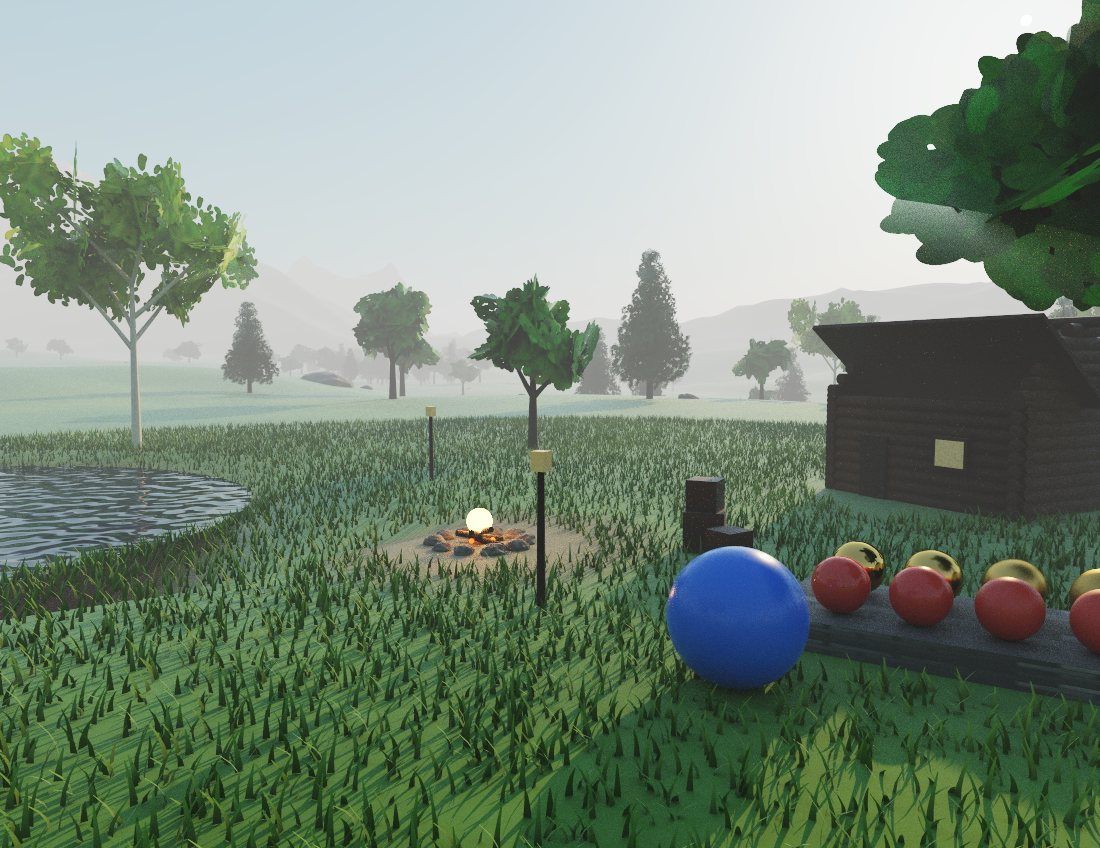
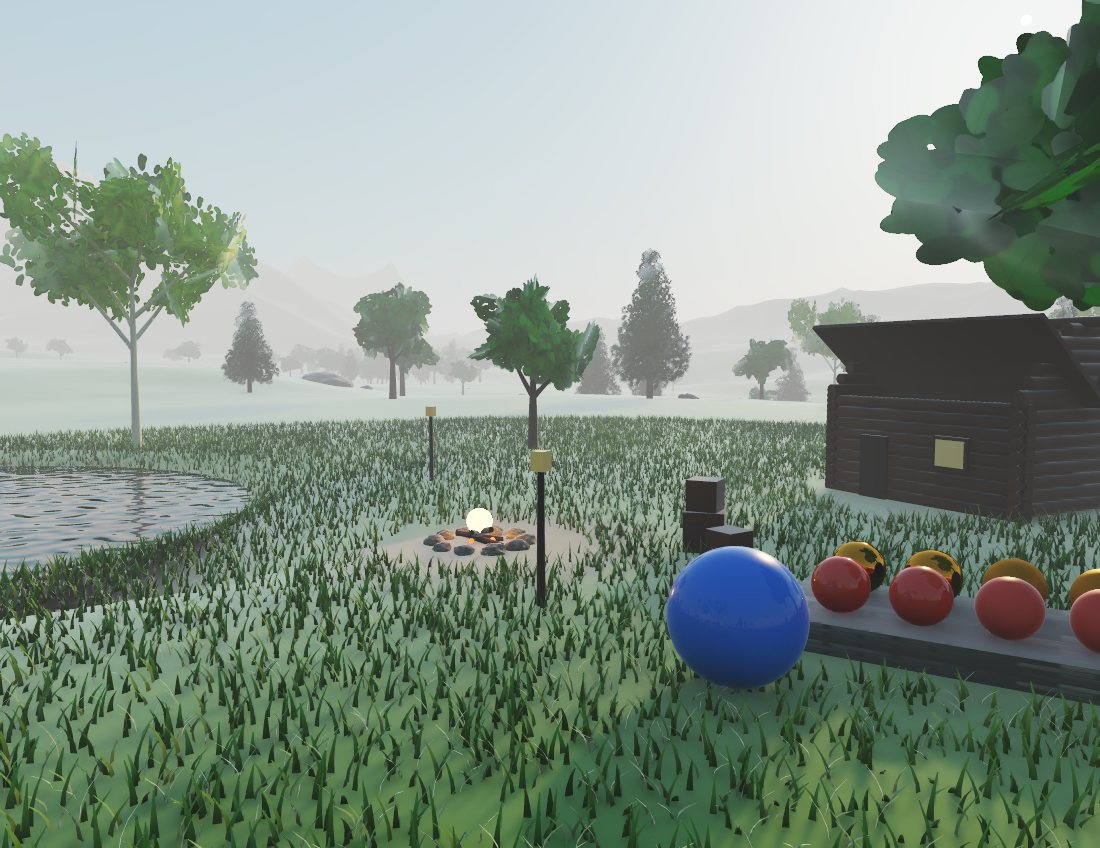
Sky, Sun & Light: a deterministic ray tracer, one complete frame at a time

diff --git a/sandbox/sky-and-light.html b/sandbox/sky-and-light.html
@@ -15,7 +15,7 @@ import { boot, THREE, PAL } from './_kit.js';
 
 const sb = boot({
   slug: 'sky-and-light', title: 'Sky, Sun & Light', standalone: true,
-  blurb: 'One camp, one whole day, and every pixel is a ray. The sky is computed from how air and haze scatter sunlight. The sun, the moon, the fire and the lanterns are real lights with real size, so shadows are soft where they should be. Light bounces off the ground and the walls, the sky lights whatever can see it, the lake and the polished balls reflect it all, and at night it is actually dark except where the fire reaches. Hold the camera still and the picture settles.',
+  blurb: 'One camp, one whole day, ray traced the way a game does it: no photos of the scene, no shortcuts, just rays. The sky is computed from how air and haze scatter sunlight. The sun, the moon, the fire and the lanterns are real lights with real size, so their shadows soften with distance. Rays off the ground and the walls bring bounced light, rays into the sky bring sky light, the lake and the polished balls reflect what a mirror ray finds, and at night it is actually dark except where the fire reaches.',
   camera: { pos: [13, 4.2, 19], target: [-1, 2.2, -3], near: 0.1, far: 9000 },
   hint: 'drag to orbit · scroll to zoom · right-drag to pan'
 });
@@ -199,22 +199,22 @@ function skyConsts() { const s = sunDir; const sunE = 1000 * Math.max(0, 1 - Mat
 function skyCPU(dx, dy, dz, K) { const zen = Math.acos(Math.max(0, dy)), inv = 1 / (Math.cos(zen) + 0.15 * Math.pow(93.885 - zen * 180 / Math.PI, -1.253)), sR = 8.4e3 * inv, sM = 1.25e3 * inv; const cosT = dx * sunDir.x + dy * sunDir.y + dz * sunDir.z, rp = 0.05968310365946075 * (1 + Math.pow(cosT * 0.5 + 0.5, 2)), g = atm.g, hg = 0.07957747154594767 * ((1 - g * g) / Math.pow(1 - 2 * g * cosT + g * g, 1.5)); const out = [0, 0, 0], fex = [0, 0, 0]; const hm = Math.min(1, Math.max(0, Math.pow(1 - sunDir.y, 5)));
   for (let k = 0; k < 3; k++) { const bR = K.betaR[k], bM = K.betaM[k]; const F = Math.exp(-(bR * sR + bM * sM)); fex[k] = F; const ratio = (bR * rp + bM * hg) / (bR + bM); let Lin = Math.pow(K.sunE * ratio * (1 - F), 1.5); Lin *= 1 + (Math.pow(K.sunE * ratio * F, 0.5) - 1) * hm; const tex = (Lin + 0.1 * F) * 0.04 + [0, 0.0003, 0.00075][k]; out[k] = Math.pow(tex, 1 / (1.2 + 1.2 * K.fade)); } return { c: out, fex }; }
 
-// ---- the tracer
+// ---- the ray tracer: a chain of passes, every one of them rays, none of them random
 const GL3 = THREE.GLSL3, QVS = 'out vec2 vUv; void main(){ vUv = uv; gl_Position = vec4(position.xy, 0.0, 1.0); }';
 const v3s = hex => { const c = lin(hex); return `vec3(${c.r.toFixed(4)}, ${c.g.toFixed(4)}, ${c.b.toFixed(4)})`; };
 const U = {
-  uNodes: { value: nodeTex }, uTris: { value: triTex }, uAttr: { value: attrTex }, uInst: { value: instTex }, tPrev: { value: null },
+  uNodes: { value: nodeTex }, uTris: { value: triTex }, uAttr: { value: attrTex }, uInst: { value: instTex },
   tBark: { value: barkTex }, tBirch: { value: birchTex }, tLeafO: { value: leafO }, tLeafP: { value: leafP }, tLeafB: { value: leafB }, tRock: { value: rockTex }, tWood: { value: woodTex }, tStone: { value: stoneTex }, tGround: { value: groundTex },
-  uTlasRoot: { value: tlasRoot }, uFrame: { value: 0 }, uBounces: { value: 2 }, uNSph: { value: NSPH }, uSpp: { value: 1 }, uBlend: { value: 1 }, uFogD: { value: 0.0025 }, uSunSize: { value: 0.27 * Math.PI / 180 }, uMoonSize: { value: 0.3 * Math.PI / 180 },
-  uCamPos: { value: new THREE.Vector3() }, uInvPV: { value: new THREE.Matrix4() }, uSunDir: { value: sunDir }, uSunCol: { value: new THREE.Vector3() }, uMoonDir: { value: moonDir }, uMoonCol: { value: new THREE.Vector3() }, uFogCol: { value: new THREE.Vector3() },
-  uBetaR: { value: new THREE.Vector3() }, uBetaM: { value: new THREE.Vector3() }, uSunE: { value: 0 }, uSunfade: { value: 1 }, uMieG: { value: 0.8 }, uSunCos: { value: 1 }, uNight: { value: 1 }, uSkyOn: { value: 1 }, uRes: { value: new THREE.Vector2(1, 1) },
+  uTlasRoot: { value: tlasRoot }, uFrame: { value: 0 }, uNSph: { value: NSPH }, uFogD: { value: 0.0025 }, uSunSize: { value: 0.27 * Math.PI / 180 }, uMoonSize: { value: 0.3 * Math.PI / 180 }, uShadowK: { value: 4 }, uGiK: { value: 6 }, uNoiseShift: { value: 0 }, uJitter: { value: new THREE.Vector2() },
+  uCamPos: { value: new THREE.Vector3() }, uInvPV: { value: new THREE.Matrix4() }, uSunDir: { value: sunDir }, uSunCol: { value: new THREE.Vector3() }, uMoonDir: { value: moonDir }, uMoonCol: { value: new THREE.Vector3() }, uFogCol: { value: new THREE.Vector3() }, uSkyZen: { value: new THREE.Vector3() }, uSkyHor: { value: new THREE.Vector3() },
+  uBetaR: { value: new THREE.Vector3() }, uBetaM: { value: new THREE.Vector3() }, uSunE: { value: 0 }, uSunfade: { value: 1 }, uMieG: { value: 0.8 }, uSunCos: { value: 1 }, uNight: { value: 1 }, uSkyOn: { value: 1 }, uBounceOn: { value: 1 }, uRes: { value: new THREE.Vector2(1, 1) }, uLoRes: { value: new THREE.Vector2(1, 1) },
   uMatA: { value: matA }, uMatB: { value: matB }, uMatC: { value: matC }, uSphA: { value: sphA }, uSphB: { value: sphB }
 };
-const TRACE = `precision highp float; precision highp int; precision highp sampler2D;
-in vec2 vUv; out vec4 o;
-uniform sampler2D uNodes, uTris, uAttr, uInst, tPrev, tBark, tBirch, tLeafO, tLeafP, tLeafB, tRock, tWood, tStone, tGround;
-uniform int uTlasRoot, uFrame, uBounces, uNSph, uSpp; uniform float uBlend, uFogD, uSunSize, uMoonSize, uSunE, uSunfade, uMieG, uSunCos, uNight, uSkyOn; uniform vec2 uRes;
-uniform vec3 uCamPos, uSunDir, uSunCol, uMoonDir, uMoonCol, uFogCol, uBetaR, uBetaM; uniform mat4 uInvPV;
+const CORE = `precision highp float; precision highp int; precision highp sampler2D;
+in vec2 vUv;
+uniform sampler2D uNodes, uTris, uAttr, uInst, tLeafO, tLeafP, tLeafB;
+uniform int uTlasRoot, uFrame, uNSph, uShadowK, uGiK; uniform float uFogD, uSunSize, uMoonSize, uSunE, uSunfade, uMieG, uSunCos, uNight, uSkyOn, uBounceOn, uNoiseShift; uniform vec2 uRes, uLoRes, uJitter;
+uniform vec3 uCamPos, uSunDir, uSunCol, uMoonDir, uMoonCol, uFogCol, uBetaR, uBetaM, uSkyZen, uSkyHor; uniform mat4 uInvPV;
 uniform vec4 uMatA[${MATN}], uMatB[${MATN}], uMatC[${MATN}], uSphA[24], uSphB[24];
 #define PI 3.14159265
 #define LAKE vec2(${LAKE.x.toFixed(1)}, ${LAKE.z.toFixed(1)})
@@ -224,14 +224,13 @@ vec4 fetchN(int i) { return texelFetch(uNodes, ivec2(i & 2047, i >> 11), 0); }
 vec4 fetchT(int i) { return texelFetch(uTris, ivec2(i & 2047, i >> 11), 0); }
 vec4 fetchA(int i) { return texelFetch(uAttr, ivec2(i & 2047, i >> 11), 0); }
 vec4 fetchI(int i) { return texelFetch(uInst, ivec2(i & 2047, i >> 11), 0); }
-float hash(vec3 p) { p = fract(p * 0.1031); p += dot(p, p.yzx + 33.33); return fract((p.x + p.y) * p.z); }
+// a fixed dither per pixel: the same every frame, so nothing crawls
+float ign(vec2 px) { return fract(52.9829189 * fract(0.06711056 * px.x + 0.00583715 * px.y) + uNoiseShift); }
 float h21(vec2 p) { return fract(sin(dot(p, vec2(127.1, 311.7))) * 43758.5453); }
 float vn(vec2 p) { vec2 i = floor(p), f = fract(p); f = f * f * (3.0 - 2.0 * f); return mix(mix(h21(i), h21(i + vec2(1, 0)), f.x), mix(h21(i + vec2(0, 1)), h21(i + vec2(1, 1)), f.x), f.y); }
 float fb3(vec2 p) { return (0.5 * vn(p) + 0.25 * vn(p * 2.03 + 7.0) + 0.125 * vn(p * 4.1 + 3.0)) / 0.875; }
 vec3 safeDir(vec3 d) { return vec3(abs(d.x) < 1e-6 ? 1e-6 : d.x, abs(d.y) < 1e-6 ? 1e-6 : d.y, abs(d.z) < 1e-6 ? 1e-6 : d.z); }
-// textures are read with an explicit level: derivatives mean nothing inside a ray loop
-vec4 sampleTex(int id, vec2 uv, float lod) { if (id == 1) return textureLod(tBark, uv, lod); if (id == 2) return textureLod(tBirch, uv, lod); if (id == 3) return textureLod(tLeafO, uv, lod); if (id == 4) return textureLod(tLeafP, uv, lod); if (id == 5) return textureLod(tLeafB, uv, lod); if (id == 6) return textureLod(tRock, uv, lod); if (id == 7) return textureLod(tWood, uv, lod); if (id == 8) return textureLod(tStone, uv, lod); return vec4(1.0); }
-// ---- the sky: single scattering of sunlight by air and haze
+float leafAlpha(int id, vec2 uv) { if (id == 3) return textureLod(tLeafO, uv, 0.0).a; if (id == 4) return textureLod(tLeafP, uv, 0.0).a; if (id == 5) return textureLod(tLeafB, uv, 0.0).a; return 1.0; }
 float rayleighPhase(float c) { return 0.05968310365946075 * (1.0 + c * c); }
 float hgPhase(float c, float g) { float g2 = g * g; return 0.07957747154594767 * ((1.0 - g2) / pow(1.0 - 2.0 * g * c + g2, 1.5)); }
 vec3 skyRad(vec3 d, bool disk) {
@@ -241,11 +240,12 @@ vec3 skyRad(vec3 d, bool disk) {
   vec3 Lin = pow(uSunE * ratio * (1.0 - Fex), vec3(1.5)); Lin *= mix(vec3(1.0), pow(uSunE * ratio * Fex, vec3(0.5)), clamp(pow(1.0 - uSunDir.y, 5.0), 0.0, 1.0));
   vec3 L0 = vec3(0.1) * Fex; if (disk) L0 += uSunE * 19000.0 * Fex * smoothstep(uSunCos, uSunCos + (1.0 - uSunCos) * 0.35, cosT);
   vec3 tex = (Lin + L0) * 0.04 + vec3(0.0, 0.0003, 0.00075); return pow(tex, vec3(1.0 / (1.2 + 1.2 * uSunfade))) * uNight; }
-// ---- walking the trees of boxes
+// the sky as a soft light from above, without firing rays: for the ends of paths
+vec3 skyAmb(vec3 n) { return mix(uSkyHor, uSkyZen, n.y * 0.5 + 0.5) * PI * uSkyOn; }
 bool slab(vec3 bmin, vec3 bmax, vec3 o, vec3 invD, float tMax) { vec3 t0 = (bmin - o) * invD, t1 = (bmax - o) * invD; vec3 tmin = min(t0, t1), tmax = max(t0, t1); float tN = max(max(tmin.x, tmin.y), max(tmin.z, 0.0)), tF = min(min(tmax.x, tmax.y), min(tmax.z, tMax)); return tN <= tF; }
 bool alphaOK(int ti, float u, float w) { int mid = int(fetchT(ti * 3).w); vec4 mb = uMatB[mid]; if (mb.w != 4.0) return true;
   vec4 a0 = fetchA(ti * 4), a1 = fetchA(ti * 4 + 1), a2 = fetchA(ti * 4 + 2), a3 = fetchA(ti * 4 + 3); float b0 = 1.0 - u - w; vec2 uv = vec2(a0.w * b0 + a1.w * u + a2.w * w, a3.x * b0 + a3.y * u + a3.z * w);
-  return sampleTex(int(mb.z), uv * uMatC[mid].xy, 0.0).a >= 0.5; }
+  return leafAlpha(int(mb.z), uv * uMatC[mid].xy) >= 0.5; }
 float triT(int ti, vec3 o, vec3 d, out float uo, out float wo) { vec3 v0 = fetchT(ti * 3).xyz, v1 = fetchT(ti * 3 + 1).xyz, v2 = fetchT(ti * 3 + 2).xyz; vec3 e1 = v1 - v0, e2 = v2 - v0, p = cross(d, e2); float det = dot(e1, p); if (abs(det) < 1e-9) return -1.0;
   float inv = 1.0 / det; vec3 tv = o - v0; float u = dot(tv, p) * inv; if (u < 0.0 || u > 1.0) return -1.0; vec3 q = cross(tv, e1); float w = dot(d, q) * inv; if (w < 0.0 || u + w > 1.0) return -1.0; uo = u; wo = w; return dot(e2, q) * inv; }
 bool walkTree(int root, vec3 o, vec3 d, inout float tMax, inout int hitTri, inout vec2 bary, bool anyHit) {
@@ -265,7 +265,31 @@ bool trace(vec3 o, vec3 d, inout float tMax, out int hitTri, out int hitInst, ou
     else { int axis = -cnt - 1; int left = int(a.w); float dc = axis == 0 ? d.x : (axis == 1 ? d.y : d.z); bool lf = dc >= 0.0; if (sp < 38) { stack[sp++] = lf ? left + 1 : left; stack[sp++] = lf ? left : left + 1; } } }
   return hitTri >= 0 || hitSph >= 0; }
 bool occluded(vec3 o, vec3 d, float tMax) { int ht, hi, hs; vec2 bb; float t = tMax; return trace(o, d, t, ht, hi, bb, hs, true); }
-// ---- what a surface is made of
+// where a ray landed: the surface's normal, material and texture spot
+void hitInfo(vec3 ro, vec3 d, float t, int ht, int hi, vec2 bary, int hs, out vec3 p, out vec3 n, out int mid, out vec2 uv) {
+  p = ro + d * t;
+  if (hs >= 0) { n = normalize(p - uSphA[hs].xyz); mid = int(uSphB[hs].x); uv = vec2(atan(n.z, n.x) / 6.2831853 + 0.5, n.y * 0.5 + 0.5); }
+  else { vec4 a0 = fetchA(ht * 4), a1 = fetchA(ht * 4 + 1), a2 = fetchA(ht * 4 + 2), a3 = fetchA(ht * 4 + 3); float b0 = 1.0 - bary.x - bary.y; vec3 nl = normalize(a0.xyz * b0 + a1.xyz * bary.x + a2.xyz * bary.y);
+    vec4 r0 = fetchI(hi * 4), r1 = fetchI(hi * 4 + 1), r2 = fetchI(hi * 4 + 2); n = normalize(r0.xyz * nl.x + r1.xyz * nl.y + r2.xyz * nl.z); mid = int(fetchT(ht * 3).w); uv = vec2(a0.w * b0 + a1.w * bary.x + a2.w * bary.y, a3.x * b0 + a3.y * bary.x + a3.z * bary.y); }
+  if (dot(n, d) > 0.0) n = -n;
+  if (uMatB[mid].w == 3.0) { vec2 g = vec2(vn(p.xz * 2.1 + 5.0) - vn(p.xz * 2.1 + 5.3), vn(p.zx * 2.3 + 1.0) - vn(p.zx * 2.3 + 1.3)); n = normalize(n + vec3(g.x, 0.0, g.y) * 0.25); } }
+// fixed sample sets: k of K around a cone or a dome, turned by the pixel's own dither
+vec3 coneK(vec3 w, float ang, int k, int K, float rot) { vec3 u = normalize(cross(abs(w.y) < 0.9 ? vec3(0.0, 1.0, 0.0) : vec3(1.0, 0.0, 0.0), w)); vec3 vv = cross(w, u); float r = sqrt((float(k) + 0.5) / float(K)) * tan(ang); float ph = 6.2831853 * (float(k) * 0.618034 + rot); return normalize(w + u * (r * cos(ph)) + vv * (r * sin(ph))); }
+vec3 cosK(vec3 n, int k, int K, float rot) { float u1 = (float(k) + 0.5) / float(K), ph = 6.2831853 * fract(float(k) * 0.618034 + rot); float r = sqrt(u1); vec3 u = normalize(cross(abs(n.y) < 0.9 ? vec3(0.0, 1.0, 0.0) : vec3(1.0, 0.0, 0.0), n)); vec3 vv = cross(n, u); return normalize(u * (r * cos(ph)) + vv * (r * sin(ph)) + n * sqrt(max(1.0 - u1, 0.0))); }
+vec3 hemiK(vec3 toward, int k, int K, float rot) { float z = (float(k) + 0.5) / float(K), ph = 6.2831853 * fract(float(k) * 0.618034 + rot); float r = sqrt(max(0.0, 1.0 - z * z)); vec3 u = normalize(cross(abs(toward.y) < 0.9 ? vec3(0.0, 1.0, 0.0) : vec3(1.0, 0.0, 0.0), toward)); vec3 vv = cross(toward, u); return normalize(u * (r * cos(ph)) + vv * (r * sin(ph)) + toward * z); }
+vec3 specBRDF(vec3 n, vec3 v, vec3 l, float rough, vec3 F0) { vec3 h = normalize(v + l); float a = max(rough * rough, 0.01); float ndh = max(dot(n, h), 0.0), ndv = max(dot(n, v), 1e-3), ndl = max(dot(n, l), 1e-3), vdh = max(dot(v, h), 0.0); float a2 = a * a; float D = a2 / (PI * pow(ndh * ndh * (a2 - 1.0) + 1.0, 2.0)); float k = a / 2.0; float G = (ndv / (ndv * (1.0 - k) + k)) * (ndl / (ndl * (1.0 - k) + k)); vec3 F = F0 + (1.0 - F0) * pow(1.0 - vdh, 5.0); return min(D * G * F / (4.0 * ndv * ndl), vec3(20.0)); }
+// the fire and the lanterns: a few rays each toward the near half of the sphere, only when close enough to matter
+vec3 sphereLights(vec3 p, vec3 n, vec3 v, vec3 diffuse, vec3 F0, float rough, float rot, int K) {
+  vec3 L = vec3(0.0);
+  for (int i = 0; i < 24; i++) { if (i >= uNSph) break; if (uSphB[i].y < 0.5) continue; vec4 s = uSphA[i]; int lm = int(uSphB[i].x); vec3 emis = uMatA[lm].rgb * uMatB[lm].y; if (dot(emis, emis) <= 0.0) continue;
+    vec3 toP = p - s.xyz; float dc = length(toP); if (dc > 30.0) continue; vec3 tw = toP / dc; float sum = 0.0; vec3 lSum = vec3(0.0);
+    for (int k = 0; k < 4; k++) { if (k >= K) break; vec3 sn = hemiK(tw, k, K, rot + float(i) * 0.31); vec3 q = s.xyz + s.w * sn; vec3 dq = q - p; float dist = length(dq); vec3 l = dq / dist; float ndl = dot(n, l), nl = dot(sn, -l); if (ndl <= 0.0 || nl <= 0.0) continue; if (occluded(p, l, dist - 1e-3)) continue;
+      lSum += (diffuse + specBRDF(n, v, l, rough, F0)) * ndl * nl / (dist * dist); }
+    L += emis * lSum * (2.0 * PI * s.w * s.w) / float(K); }
+  return L; }
+`;
+const MATS = `uniform sampler2D tBark, tBirch, tRock, tWood, tStone, tGround;
+vec4 sampleTex(int id, vec2 uv, float lod) { if (id == 1) return textureLod(tBark, uv, lod); if (id == 2) return textureLod(tBirch, uv, lod); if (id == 3) return textureLod(tLeafO, uv, lod); if (id == 4) return textureLod(tLeafP, uv, lod); if (id == 5) return textureLod(tLeafB, uv, lod); if (id == 6) return textureLod(tRock, uv, lod); if (id == 7) return textureLod(tWood, uv, lod); if (id == 8) return textureLod(tStone, uv, lod); return vec4(1.0); }
 vec3 terrainColor(vec3 p, vec3 n) { float slope = 1.0 - n.y; float macro = fb3(p.xz / 60.0 + 2.0), micro = fb3(p.xz / 7.0);
   vec3 c = mix(${v3s(0x4f7a2f)}, ${v3s(0x6f8a3a)}, smoothstep(0.35, 0.65, macro)); c = mix(c, ${v3s(0x3f6a33)}, smoothstep(0.3, 0.7, micro) * 0.5);
   c = mix(c, ${v3s(0x6b5a3c)}, smoothstep(0.22, 0.45, slope + (micro - 0.5) * 0.15)); c = mix(c, ${v3s(0x76726a)}, smoothstep(0.4, 0.62, slope));
@@ -278,68 +302,86 @@ void matEval(int mid, vec3 p, vec3 n, vec2 uv, float dist, out vec3 alb, out flo
   vec4 a = uMatA[mid], b = uMatB[mid], c = uMatC[mid]; alb = a.rgb; rough = a.w; metal = b.x; emis = a.rgb * b.y;
   int tex = int(b.z); if (tex > 0) alb *= sampleTex(tex, uv * c.xy, clamp(log2(max(dist, 1.0)) - 2.5, 0.0, 5.0)).rgb;
   if (b.w == 1.0) alb = terrainColor(p, n); else if (b.w == 2.0) alb = grassColor(p, uv); }
-// ---- light
-vec3 coneSample(vec3 w, float ang, float seed) { vec3 u = normalize(cross(abs(w.y) < 0.9 ? vec3(0.0, 1.0, 0.0) : vec3(1.0, 0.0, 0.0), w)); vec3 vv = cross(w, u); float r = sqrt(hash(vec3(gl_FragCoord.xy, seed))) * tan(ang); float ph = 6.2831853 * hash(vec3(gl_FragCoord.yx, seed + 3.7)); return normalize(w + u * (r * cos(ph)) + vv * (r * sin(ph))); }
-vec3 cosDir(vec3 n, float seed) { float u1 = hash(vec3(gl_FragCoord.xy, seed + 8.4)), u2 = hash(vec3(gl_FragCoord.yx, seed + 1.9)); float r = sqrt(u1), ph = 6.2831853 * u2; vec3 u = normalize(cross(abs(n.y) < 0.9 ? vec3(0.0, 1.0, 0.0) : vec3(1.0, 0.0, 0.0), n)); vec3 vv = cross(n, u); return normalize(u * (r * cos(ph)) + vv * (r * sin(ph)) + n * sqrt(max(1.0 - u1, 0.0))); }
-vec3 ggxHalf(vec3 n, float a, float seed) { float u1 = hash(vec3(gl_FragCoord.xy, seed + 4.2)), u2 = hash(vec3(gl_FragCoord.yx, seed + 6.6)); float a2 = a * a; float cosT = sqrt((1.0 - u1) / (1.0 + (a2 - 1.0) * u1)), sinT = sqrt(max(0.0, 1.0 - cosT * cosT)), ph = 6.2831853 * u2; vec3 u = normalize(cross(abs(n.y) < 0.9 ? vec3(0.0, 1.0, 0.0) : vec3(1.0, 0.0, 0.0), n)); vec3 vv = cross(n, u); return normalize(u * (sinT * cos(ph)) + vv * (sinT * sin(ph)) + n * cosT); }
-vec3 sphereSample(float seed) { float u1 = hash(vec3(gl_FragCoord.xy, seed + 2.2)), u2 = hash(vec3(gl_FragCoord.yx, seed + 5.9)); float z = 1.0 - 2.0 * u1, r = sqrt(max(0.0, 1.0 - z * z)), ph = 6.2831853 * u2; return vec3(r * cos(ph), z, r * sin(ph)); }
-vec3 specBRDF(vec3 n, vec3 v, vec3 l, float rough, vec3 F0) { vec3 h = normalize(v + l); float a = max(rough * rough, 0.004); float ndh = max(dot(n, h), 0.0), ndv = max(dot(n, v), 1e-3), ndl = max(dot(n, l), 1e-3), vdh = max(dot(v, h), 0.0); float a2 = a * a; float D = a2 / (PI * pow(ndh * ndh * (a2 - 1.0) + 1.0, 2.0)); float k = a / 2.0; float G = (ndv / (ndv * (1.0 - k) + k)) * (ndl / (ndl * (1.0 - k) + k)); vec3 F = F0 + (1.0 - F0) * pow(1.0 - vdh, 5.0); return min(D * G * F / (4.0 * ndv * ndl), vec3(40.0)); }
-vec3 direct(vec3 p, vec3 n, vec3 v, vec3 alb, float rough, float metal, float seed) {
-  vec3 L = vec3(0.0); vec3 diffuse = alb * (1.0 - metal) / PI; vec3 F0 = mix(vec3(0.04), alb, metal); bool glossy = rough >= 0.2;
-  if (dot(uSunCol, uSunCol) > 0.0) { vec3 l = coneSample(uSunDir, uSunSize, seed); float ndl = dot(n, l); if (ndl > 0.0 && !occluded(p, l, 1e9)) L += uSunCol * ndl * (diffuse + (glossy ? specBRDF(n, v, l, rough, F0) : vec3(0.0))); }
-  if (dot(uMoonCol, uMoonCol) > 0.0) { vec3 l = coneSample(uMoonDir, uMoonSize, seed + 9.0); float ndl = dot(n, l); if (ndl > 0.0 && !occluded(p, l, 1e9)) L += uMoonCol * ndl * (diffuse + (glossy ? specBRDF(n, v, l, rough, F0) : vec3(0.0))); }
-  for (int i = 0; i < 24; i++) { if (i >= uNSph) break; if (uSphB[i].y < 0.5) continue; vec4 s = uSphA[i]; int lm = int(uSphB[i].x); vec3 emis = uMatA[lm].rgb * uMatB[lm].y; if (dot(emis, emis) <= 0.0) continue;
-    vec3 sn = sphereSample(seed + float(i) * 1.7); if (dot(sn, p - s.xyz) < 0.0) sn = -sn; vec3 q = s.xyz + s.w * sn; vec3 dq = q - p; float dist = length(dq); vec3 l = dq / dist; float ndl = dot(n, l), nl = dot(sn, -l); if (ndl <= 0.0 || nl <= 0.0) continue; if (occluded(p, l, dist - 1e-3)) continue;
-    L += emis * (diffuse + (glossy ? specBRDF(n, v, l, rough, F0) : vec3(0.0))) * ndl * nl * (2.0 * PI * s.w * s.w) / (dist * dist); }
-  return L; }
-void main() {
-  vec3 col = vec3(0.0);
-  for (int sp = 0; sp < 4; sp++) { if (sp >= uSpp) break;
-    float seed = fract(float(uFrame * 4 + sp) * 0.618034) * 97.0;
-    vec2 jit = (vec2(hash(vec3(gl_FragCoord.xy, seed + 0.3)), hash(vec3(gl_FragCoord.yx, seed + 0.7))) - 0.5) / uRes;
-    vec4 w = uInvPV * vec4((vUv + jit) * 2.0 - 1.0, 1.0, 1.0); vec3 d = normalize(w.xyz / w.w - uCamPos); vec3 ro = uCamPos;
-    vec3 acc = vec3(0.0), thr = vec3(1.0); bool specBounce = false; float lastRough = 1.0; float tPrimary = -1.0;
-    for (int b = 0; b <= 3; b++) { if (b > uBounces) break;
-      float tMax = 1e9; int ht, hi, hs; vec2 bary; bool hit = trace(ro, d, tMax, ht, hi, bary, hs, false);
-      if (!hit) { acc += thr * skyRad(d, b == 0 || (specBounce && lastRough < 0.2)) * (b == 0 ? 1.0 : uSkyOn); break; }
-      vec3 p = ro + d * tMax; vec3 n; int mid; vec2 uv = vec2(0.0); bool isLight = false;
-      if (hs >= 0) { n = normalize(p - uSphA[hs].xyz); mid = int(uSphB[hs].x); isLight = uSphB[hs].y > 0.5; uv = vec2(atan(n.z, n.x) / 6.2831853 + 0.5, n.y * 0.5 + 0.5); }
-      else { vec4 a0 = fetchA(ht * 4), a1 = fetchA(ht * 4 + 1), a2 = fetchA(ht * 4 + 2), a3 = fetchA(ht * 4 + 3); float b0 = 1.0 - bary.x - bary.y; vec3 nl = normalize(a0.xyz * b0 + a1.xyz * bary.x + a2.xyz * bary.y);
-        vec4 r0 = fetchI(hi * 4), r1 = fetchI(hi * 4 + 1), r2 = fetchI(hi * 4 + 2); n = normalize(r0.xyz * nl.x + r1.xyz * nl.y + r2.xyz * nl.z); mid = int(fetchT(ht * 3).w); uv = vec2(a0.w * b0 + a1.w * bary.x + a2.w * bary.y, a3.x * b0 + a3.y * bary.x + a3.z * bary.y); }
-      if (dot(n, d) > 0.0) n = -n;
-      if (b == 0) tPrimary = tMax;
-      vec3 alb; float rough, metal; vec3 emis; matEval(mid, p, n, uv, tMax, alb, rough, metal, emis);
-      if (uMatB[mid].w == 3.0) { vec2 g = vec2(vn(p.xz * 2.1 + 5.0) - vn(p.xz * 2.1 + 5.3), vn(p.zx * 2.3 + 1.0) - vn(p.zx * 2.3 + 1.3)); n = normalize(n + vec3(g.x, 0.0, g.y) * 0.25); }
-      if (dot(emis, emis) > 0.0 && (b == 0 || !isLight || specBounce)) acc += thr * emis;
-      vec3 v = -d; vec3 po = p + n * 2e-3;
-      acc += thr * direct(po, n, v, alb, rough, metal, seed + float(b) * 7.3);
-      if (b == uBounces) break;
-      vec3 F0 = mix(vec3(0.04), alb, metal); float ndv = max(dot(n, v), 0.0); vec3 F = F0 + (1.0 - F0) * pow(1.0 - ndv, 5.0);
-      float ps = metal > 0.5 ? 1.0 : clamp(max(F.r, max(F.g, F.b)) * 1.5, 0.08, 0.7); if (uMatB[mid].w == 3.0) ps = clamp(F.r * 4.0, 0.05, 0.95);
-      float pick = hash(vec3(gl_FragCoord.xy, seed + 13.0 + float(b) * 2.1)); vec3 nd;
-      if (pick < ps) { vec3 h = ggxHalf(n, max(rough * rough, 0.004), seed + float(b) * 5.5); nd = reflect(d, h); if (dot(nd, n) <= 0.0) break; thr *= (metal > 0.5 ? alb : F / ps) * (metal > 0.5 ? 1.0 : 1.0); specBounce = true; }
-      else { nd = cosDir(n, seed + float(b) * 5.5); thr *= alb * (1.0 - metal) / (1.0 - ps); specBounce = false; }
-      lastRough = rough; d = nd; ro = po;
-    }
-    if (tPrimary > 0.0) { acc = min(acc, vec3(40.0)); acc = mix(uFogCol, acc, exp(-uFogD * tPrimary)); }
-    if (any(isnan(acc)) || any(isinf(acc))) acc = vec3(0.0);
-    col += acc / float(uSpp); }
-  o = vec4(mix(texture(tPrev, vUv).rgb, col, uBlend), 1.0);
-}`;
-const traceMat = new THREE.ShaderMaterial({ glslVersion: GL3, uniforms: U, vertexShader: QVS, fragmentShader: TRACE, depthTest: false, depthWrite: false });
+// light leaving a surface a secondary ray landed on: the sun through one shadow ray, the fire, the sky as a soft dome
+vec3 bounceShade(vec3 q, vec3 nq, vec3 v, float dist, int mid, vec2 uv, float rot) {
+  vec3 alb; float rough, metal; vec3 emis; matEval(mid, q, nq, uv, dist, alb, rough, metal, emis);
+  vec3 diffuse = alb * (1.0 - metal) / PI; vec3 F0 = mix(vec3(0.04), alb, metal); vec3 L = emis; vec3 qo = q + nq * 3e-3;
+  if (dot(uSunCol, uSunCol) > 0.0) { float ndl = dot(nq, uSunDir); if (ndl > 0.0 && !occluded(qo, uSunDir, 1e9)) L += uSunCol * ndl * (diffuse + specBRDF(nq, v, uSunDir, rough, F0)); }
+  if (dot(uMoonCol, uMoonCol) > 0.0) { float ndl = dot(nq, uMoonDir); if (ndl > 0.0 && !occluded(qo, uMoonDir, 1e9)) L += uMoonCol * ndl * diffuse; }
+  L += sphereLights(qo, nq, v, diffuse, F0, rough, rot, 1);
+  L += diffuse * skyAmb(nq) * 0.55 * uBounceOn; return L; }
+`;
+// pass 1: cast one ray per pixel and remember what it hit
+const GBUF = CORE + MATS + `layout(location = 0) out vec4 oA; layout(location = 1) out vec4 oB; layout(location = 2) out vec4 oC; layout(location = 3) out vec4 oD;
+void main() { vec4 w = uInvPV * vec4((vUv + uJitter / uRes) * 2.0 - 1.0, 1.0, 1.0); vec3 d = normalize(w.xyz / w.w - uCamPos); float tMax = 1e9; int ht, hi, hs; vec2 bary;
+  if (!trace(uCamPos, d, tMax, ht, hi, bary, hs, false)) { oA = vec4(d, -1.0); oB = vec4(0.0); oC = vec4(0.0); oD = vec4(0.0); return; }
+  vec3 p, n; int mid; vec2 uv; hitInfo(uCamPos, d, tMax, ht, hi, bary, hs, p, n, mid, uv); vec3 alb; float rough, metal; vec3 emis; matEval(mid, p, n, uv, tMax, alb, rough, metal, emis);
+  oA = vec4(p, tMax); oB = vec4(n, rough); oC = vec4(alb, metal); oD = vec4(emis, float(mid)); }`;
+// pass 2, at half size: shadow rays to the sun and the moon, and rays up into the sky and off the ground for the soft light
+const LO = CORE + MATS + `uniform sampler2D gA, gB; layout(location = 0) out vec4 oV; layout(location = 1) out vec4 oG;
+void main() { vec4 A = texture(gA, vUv); if (A.w < 0.0) { oV = vec4(1.0, 1.0, 0.0, 0.0); oG = vec4(0.0); return; } vec3 p = A.xyz, n = texture(gB, vUv).xyz; vec3 po = p + n * 3e-3; float rot = ign(floor(vUv * uLoRes));
+  float sv = 1.0; if (dot(uSunCol, uSunCol) > 0.0) { sv = 0.0; if (dot(n, uSunDir) > -0.1) { for (int k = 0; k < 8; k++) { if (k >= uShadowK) break; vec3 l = coneK(uSunDir, uSunSize, k, uShadowK, rot); if (!occluded(po, l, 1e9)) sv += 1.0; } sv /= float(uShadowK); } }
+  float mv = 1.0; if (dot(uMoonCol, uMoonCol) > 0.0) { mv = 0.0; vec3 l = coneK(uMoonDir, uMoonSize, 0, 1, rot); if (dot(n, l) > 0.0 && !occluded(po, l, 1e9)) mv = 1.0; }
+  vec3 E = vec3(0.0); vec3 v = normalize(uCamPos - p);
+  for (int k = 0; k < 8; k++) { if (k >= uGiK) break; vec3 dd = cosK(n, k, uGiK, rot + 0.37); float tMax = 1e9; int ht, hi, hs; vec2 bb;
+    if (!trace(po, dd, tMax, ht, hi, bb, hs, false)) E += skyRad(dd, false) * uSkyOn;
+    else if (uBounceOn > 0.5) { vec3 q, nq; int mq; vec2 uq; hitInfo(po, dd, tMax, ht, hi, bb, hs, q, nq, mq, uq); E += bounceShade(q, nq, -dd, tMax + A.w, mq, uq, rot + float(k) * 0.13); } }
+  E *= PI / float(uGiK);
+  oV = vec4(sv, mv, 0.0, 1.0); oG = vec4(E, 1.0); }`;
+// pass 3: smooth the half-size answers without crossing edges, once across, once down
+const BLUR = CORE + `uniform sampler2D gA, gB, tV, tG; uniform vec2 uDir; layout(location = 0) out vec4 oV; layout(location = 1) out vec4 oG;
+void main() { vec4 A0 = texture(gA, vUv); vec4 v0 = texture(tV, vUv), g0 = texture(tG, vUv); if (A0.w < 0.0 || uDir.x + uDir.y == 0.0) { oV = v0; oG = g0; return; } vec3 n0 = texture(gB, vUv).xyz; float z0 = A0.w; vec4 sv = vec4(0.0), sg = vec4(0.0); float ws = 0.0;
+  for (int i = -4; i <= 4; i++) { vec2 uv2 = vUv + uDir * float(i) / uLoRes; if (uv2.x < 0.0 || uv2.x > 1.0 || uv2.y < 0.0 || uv2.y > 1.0) continue; vec4 A = texture(gA, uv2); if (A.w < 0.0) continue; vec3 n = texture(gB, uv2).xyz;
+    float w = exp(-abs(A.w - z0) / (0.03 * z0 + 0.05)) * pow(max(dot(n, n0), 0.0), 12.0) * exp(-float(i * i) / 8.0); sv += texture(tV, uv2) * w; sg += texture(tG, uv2) * w; ws += w; }
+  oV = ws > 0.0 ? sv / ws : v0; oG = ws > 0.0 ? sg / ws : g0; }`;
+// pass 4: one mirror ray for anything smooth enough to show a reflection
+const REFL = CORE + MATS + `uniform sampler2D gA, gB, gC; out vec4 o;
+void main() { vec4 A = texture(gA, vUv), B = texture(gB, vUv); if (A.w < 0.0 || B.w >= 0.45) { o = vec4(0.0); return; } vec3 p = A.xyz, n = B.xyz; vec3 v = normalize(uCamPos - p); vec3 r = reflect(-v, n); if (dot(r, n) <= 0.0) { o = vec4(0.0); return; }
+  vec3 po = p + n * 3e-3; float tMax = 1e9; int ht, hi, hs; vec2 bb; vec3 col;
+  if (!trace(po, r, tMax, ht, hi, bb, hs, false)) col = skyRad(r, true);
+  else { vec3 q, nq; int mq; vec2 uq; hitInfo(po, r, tMax, ht, hi, bb, hs, q, nq, mq, uq); col = bounceShade(q, nq, -r, tMax + A.w, mq, uq, ign(gl_FragCoord.xy)); col = mix(uFogCol, col, exp(-uFogD * tMax)); }
+  o = vec4(col, 1.0); }`;
+// pass 5: put it together at full size: direct light, the fire and the lanterns by rays, the smoothed soft light, reflections, haze
+const COMP = CORE + `uniform sampler2D gA, gB, gC, gD, tV, tG, tR, tPrev; uniform float uBlend; uniform int uView; out vec4 o;
+void main() { vec4 A = texture(gA, vUv); vec3 col;
+  if (A.w < 0.0) col = skyRad(A.xyz, true);
+  else { vec4 B = texture(gB, vUv), C = texture(gC, vUv), D = texture(gD, vUv); vec3 p = A.xyz, n = B.xyz, alb = C.rgb; float rough = B.w, metal = C.w; vec3 emis = D.rgb; vec3 v = normalize(uCamPos - p);
+    // the half-size answers, picked from the four nearest cells that belong to the same surface
+    vec2 lc = vUv * uLoRes - 0.5; vec2 f = fract(lc); vec2 base = (floor(lc) + 0.5) / uLoRes; vec4 sv = vec4(0.0); float ws = 0.0;
+    for (int j = 0; j < 4; j++) { vec2 uv2 = base + vec2(float(j & 1), float(j >> 1)) / uLoRes; vec4 Al = texture(gA, uv2); if (Al.w < 0.0) continue; vec3 nl = texture(gB, uv2).xyz; float w = (j == 0 ? (1.0 - f.x) * (1.0 - f.y) : j == 1 ? f.x * (1.0 - f.y) : j == 2 ? (1.0 - f.x) * f.y : f.x * f.y) * exp(-abs(Al.w - A.w) / (0.03 * A.w + 0.05)) * pow(max(dot(nl, n), 0.0), 8.0) + 1e-4; sv += vec4(texture(tV, uv2).xy, texture(tG, uv2).rg) * w; ws += w; }
+    vec4 vG = ws > 0.0 ? sv / ws : vec4(1.0, 1.0, 0.0, 0.0); vec3 E = vec3(0.0); { vec4 sg = vec4(0.0); float w2 = 0.0; for (int j = 0; j < 4; j++) { vec2 uv2 = base + vec2(float(j & 1), float(j >> 1)) / uLoRes; vec4 Al = texture(gA, uv2); if (Al.w < 0.0) continue; vec3 nl = texture(gB, uv2).xyz; float w = (j == 0 ? (1.0 - f.x) * (1.0 - f.y) : j == 1 ? f.x * (1.0 - f.y) : j == 2 ? (1.0 - f.x) * f.y : f.x * f.y) * exp(-abs(Al.w - A.w) / (0.03 * A.w + 0.05)) * pow(max(dot(nl, n), 0.0), 8.0) + 1e-4; sg += texture(tG, uv2) * w; w2 += w; } E = w2 > 0.0 ? sg.rgb / w2 : vec3(0.0); }
+    float sunVis = vG.x, moonVis = vG.y;
+    vec3 diffuse = alb * (1.0 - metal) / PI; vec3 F0 = mix(vec3(0.04), alb, metal); float ndv = max(dot(n, v), 0.0); vec3 F = F0 + (1.0 - F0) * pow(1.0 - ndv, 5.0);
+    col = emis;
+    float ndl = max(dot(n, uSunDir), 0.0); col += uSunCol * sunVis * ndl * (diffuse + specBRDF(n, v, uSunDir, rough, F0));
+    float ndm = max(dot(n, uMoonDir), 0.0); col += uMoonCol * moonVis * ndm * diffuse;
+    col += sphereLights(p + n * 3e-3, n, v, diffuse, F0, rough, ign(gl_FragCoord.xy), 2);
+    col += diffuse * E;
+    // reflections: a traced mirror for the smooth, the soft sky for the rough, blended by how rough
+    vec4 R = texture(tR, vUv); float open = clamp(dot(E, vec3(0.33)) / max(dot(skyAmb(n), vec3(0.33)), 1e-3), 0.0, 1.0);
+    vec3 specAmb = F * mix(uSkyHor, uSkyZen, reflect(-v, n).y * 0.5 + 0.5) * uSkyOn * open;
+    float sharp = R.a > 0.5 ? 1.0 - smoothstep(0.12, 0.45, rough) : 0.0; col += mix(specAmb, F * R.rgb, sharp) * (metal > 0.5 ? alb / max(F, vec3(1e-3)) * F : vec3(1.0));
+    col = mix(uFogCol, col, exp(-uFogD * A.w));
+    if (uView == 1) col = vec3(sunVis); else if (uView == 2) col = E * 0.5; else if (uView == 3) col = R.a > 0.5 ? R.rgb : vec3(0.0); }
+  if (any(isnan(col))) col = vec3(0.0);
+  o = vec4(mix(texture(tPrev, vUv).rgb, col, uBlend), 1.0); }`;
+const mk = (frag, extra) => new THREE.ShaderMaterial({ glslVersion: GL3, uniforms: Object.assign({}, U, extra || {}), vertexShader: QVS, fragmentShader: frag, depthTest: false, depthWrite: false });
+const gbufMat = mk(GBUF); const loMat = mk(LO, { gA: { value: null }, gB: { value: null } }); const blurMat = mk(BLUR, { gA: { value: null }, gB: { value: null }, tV: { value: null }, tG: { value: null }, uDir: { value: new THREE.Vector2() } });
+const reflMat = mk(REFL, { gA: { value: null }, gB: { value: null }, gC: { value: null } }); const compMat = mk(COMP, { gA: { value: null }, gB: { value: null }, gC: { value: null }, gD: { value: null }, tV: { value: null }, tG: { value: null }, tR: { value: null }, tPrev: { value: null }, uBlend: { value: 1 }, uView: { value: 0 } });
 const dispU = { tSrc: { value: null }, uExposure: { value: 0.42 }, uCurve: { value: 1 } };
 const dispMat = new THREE.ShaderMaterial({ glslVersion: GL3, uniforms: dispU, vertexShader: QVS, depthTest: false, depthWrite: false, fragmentShader: `precision highp float; in vec2 vUv; out vec4 o; uniform sampler2D tSrc; uniform float uExposure; uniform int uCurve;
 vec3 aces(vec3 x) { return clamp((x * (2.51 * x + 0.03)) / (x * (2.43 * x + 0.59) + 0.14), 0.0, 1.0); }
 vec3 srgb(vec3 c) { c = clamp(c, 0.0, 1.0); return mix(c * 12.92, 1.055 * pow(c, vec3(1.0 / 2.4)) - 0.055, step(0.0031308, c)); }
 void main() { vec3 c = texture(tSrc, vUv).rgb * uExposure; c = uCurve == 1 ? aces(c) : uCurve == 2 ? c / (1.0 + c) : c; o = vec4(srgb(c), 1.0); }` });
-const quadCam = new THREE.OrthographicCamera(-1, 1, 1, -1, 0, 1), quadGeo = new THREE.PlaneGeometry(2, 2);
-const traceScene = new THREE.Scene(); traceScene.add(new THREE.Mesh(quadGeo, traceMat)); const dispScene = new THREE.Scene(); dispScene.add(new THREE.Mesh(quadGeo, dispMat));
-let rt = null, rtPrev = null, rtScale = 0, accN = 0;
-function ensureRT(scale) { const w = Math.max(2, Math.round(sb.stage.clientWidth * scale)), h = Math.max(2, Math.round(sb.stage.clientHeight * scale)); if (rt && rt.width === w && rt.height === h) return; if (rt) { rt.dispose(); rtPrev.dispose(); }
-  const mk = () => new THREE.WebGLRenderTarget(w, h, { type: THREE.FloatType, minFilter: THREE.LinearFilter, magFilter: THREE.LinearFilter, depthBuffer: false }); rt = mk(); rtPrev = mk(); accN = 0; U.uRes.value.set(w, h); }
+const quadCam = new THREE.OrthographicCamera(-1, 1, 1, -1, 0, 1), quadGeo = new THREE.PlaneGeometry(2, 2), quad = new THREE.Mesh(quadGeo, gbufMat), quadScene = new THREE.Scene(); quadScene.add(quad);
+function pass(mat, target) { quad.material = mat; renderer.setRenderTarget(target); renderer.render(quadScene, quadCam); }
+let rtG = null, rtLo = null, rtLoT = null, rtLoB = null, rtR = null, acc = null, accPrev = null, rtScale = 0, accN = 0;
+const mkRT = (w, h, count, linear) => new THREE.WebGLRenderTarget(w, h, { count, type: THREE.FloatType, minFilter: linear ? THREE.LinearFilter : THREE.NearestFilter, magFilter: linear ? THREE.LinearFilter : THREE.NearestFilter, depthBuffer: false });
+function ensureRT(scale) { const w = Math.max(2, Math.round(sb.stage.clientWidth * scale)), h = Math.max(2, Math.round(sb.stage.clientHeight * scale)); if (rtG && rtG.width === w && rtG.height === h) return; for (const r of [rtG, rtLo, rtLoT, rtLoB, rtR, acc, accPrev]) if (r) r.dispose();
+  const lw = Math.max(2, w >> 1), lh = Math.max(2, h >> 1); rtG = mkRT(w, h, 4, false); rtLo = mkRT(lw, lh, 2, false); rtLoT = mkRT(lw, lh, 2, false); rtLoB = mkRT(lw, lh, 2, false); rtR = mkRT(w, h, 1, false); acc = mkRT(w, h, 1, true); accPrev = mkRT(w, h, 1, true); accN = 0; U.uRes.value.set(w, h); U.uLoRes.value.set(lw, lh); }
 
 // ---- state
-let hour = 9.5, running = false, sunStrength = 1, moonOn = true, lightFrom = 'both', autoExp = true, exposure = 0.42, fogOn = true, fogDensity = 0.0025, stillScale = 1, moveScale = 0.3, accumulate = true, fireOn = true, lampsOn = true, rowsOn = true;
+let hour = 9.5, running = false, sunStrength = 1, moonOn = true, lightFrom = 'both', autoExp = true, exposure = 0.42, fogOn = true, fogDensity = 0.0025, stillScale = 1, moveScale = 0.5, accumulate = true, fireOn = true, lampsOn = true, rowsOn = true, denoise = true;
 let lastMove = 0, runT = 0; const lastCam = new THREE.Matrix4(); let stateKey = '';
 function dirty() { accN = 0; }
 function placeSun() {
@@ -349,8 +391,8 @@ function placeSun() {
   const upness = THREE.MathUtils.smoothstep(sunDir.y, -0.02, 0.06), night = 1 - THREE.MathUtils.smoothstep(sunDir.y, -0.02, 0.1); const nightScale = 0.03 + 0.97 * THREE.MathUtils.smoothstep(sunDir.y, -0.2, -0.02); U.uNight.value = nightScale;
   const { fex } = skyCPU(sunDir.x, Math.max(sunDir.y, 0.001), sunDir.z, K); const sunI = (lightFrom === 'sky' ? 0 : sunStrength) * 13 * upness; U.uSunCol.value.set(fex[0] * sunI, fex[1] * sunI, fex[2] * sunI);
   const moonI = moonOn && lightFrom !== 'sky' ? 0.05 * (1 - THREE.MathUtils.smoothstep(sunDir.y, -0.16, -0.01)) : 0; U.uMoonCol.value.set(0.55 * moonI, 0.65 * moonI, 1.0 * moonI);
-  U.uSkyOn.value = lightFrom === 'sun' ? 0 : 1;
-  let r = 0, g = 0, b = 0; for (let i = 0; i < 8; i++) { const a = i / 8 * Math.PI * 2; const c = skyCPU(Math.cos(a) * 0.999, 0.035, Math.sin(a) * 0.999, K).c; r += c[0]; g += c[1]; b += c[2]; } U.uFogCol.value.set(r / 8 * nightScale, g / 8 * nightScale, b / 8 * nightScale);
+  U.uSkyOn.value = lightFrom === 'sun' ? 0 : 1; const zc = skyCPU(0, 1, 0, K).c; U.uSkyZen.value.set(zc[0] * nightScale, zc[1] * nightScale, zc[2] * nightScale);
+  let r = 0, g = 0, b = 0; for (let i = 0; i < 8; i++) { const a = i / 8 * Math.PI * 2; const c = skyCPU(Math.cos(a) * 0.999, 0.035, Math.sin(a) * 0.999, K).c; r += c[0]; g += c[1]; b += c[2]; } U.uFogCol.value.set(r / 8 * nightScale, g / 8 * nightScale, b / 8 * nightScale); U.uSkyHor.value.copy(U.uFogCol.value);
   matB[M.GLASS * 4 + 1] = 4 * night; matB[M.LAMP * 4 + 1] = lampsOn ? 22 * night : 0; matB[M.FLAME * 4 + 1] = fireOn ? 45 : 0; matB[M.EMBER * 4 + 1] = fireOn ? 6 : 0;
   if (autoExp) exposure = THREE.MathUtils.lerp(2.6, 0.42, THREE.MathUtils.smoothstep(sunDir.y, -0.12, 0.12)); dispU.uExposure.value = exposure;
   sunHRead((Math.asin(sunDir.y) * 180 / Math.PI).toFixed(0) + '° above the horizon'); const sc = new THREE.Color(fex[0], fex[1], fex[2]); sunCRead(sunI > 0.01 ? '#' + sc.getHexString() + ' × ' + sunI.toFixed(1) : 'below the horizon'); dirty();
@@ -371,7 +413,7 @@ const sunHRead = s1.readout('sun height'), sunCRead = s1.readout('sun colour and
 const s2 = sb.panel.section('02 · Light and bounces', 'The sun, the moon, the fire and the lanterns are the only things that make light. Everything else is light that bounced: off the sky, off the ground, off the walls. Turn the sky off and every shadow goes black; turn the bounces off and the underside of everything goes black.');
 s2.segment('Light from', [{ value: 'both', label: 'sun and sky' }, { value: 'sun', label: 'the sun only' }, { value: 'sky', label: 'the sky only' }], 'both', v => { lightFrom = v; placeSun(); });
 s2.slider('Sun strength', { min: 0, max: 3, step: 0.05, value: 1, fmt: v => '× ' + (+v).toFixed(2) }, v => { sunStrength = v; placeSun(); });
-s2.slider('Bounces the light may take', { min: 0, max: 3, step: 1, value: 2, fmt: v => v === 0 ? 'none, direct light only' : v + (v === 1 ? ' bounce' : ' bounces') }, v => { U.uBounces.value = v; dirty(); });
+s2.toggle('bounced light (rays off the ground and the walls)', true, v => { U.uBounceOn.value = v ? 1 : 0; dirty(); });
 s2.toggle('the campfire', true, v => { fireOn = v; placeSun(); });
 s2.toggle('the lanterns', true, v => { lampsOn = v; placeSun(); });
 s2.note('Look for the red bounce from the crates on the grass beside them, the green bounce under the trees, and at night the fire lighting the cabin wall from below.');
@@ -392,12 +434,15 @@ const s5 = sb.panel.section('05 · Air in the distance', 'Far things fade into t
 s5.toggle('haze in the distance', true, v => { fogOn = v; U.uFogD.value = v ? fogDensity : 0; dirty(); });
 s5.slider('How thick', { min: 0, max: 0.02, step: 0.0005, value: 0.0025, fmt: v => (+v).toFixed(4) }, v => { fogDensity = v; if (fogOn) U.uFogD.value = v; dirty(); });
 
-const s6 = sb.panel.section('06 · The renderer', 'Every pixel fires one ray a frame, and the frames blend while nothing moves. While you drag, it draws a small picture so it can keep up, then goes back to full size and settles. This is the same trade every path traced game makes, with a denoiser instead of your patience.');
+const s6 = sb.panel.section('06 · The renderer', 'This is how a game ray traces: one ray per pixel finds the surface, a few rays per pixel ask the sun, the moon, the fire and the sky, one mirror ray serves anything smooth, and the soft light is worked out at half size and smoothed without crossing edges. Nothing is random, so every frame is complete. Holding still only adds anti-aliasing.');
+s6.segment('Show', [{ value: 0, label: 'the picture' }, { value: 1, label: 'the sun\'s shadow rays' }, { value: 2, label: 'sky and bounce light' }, { value: 3, label: 'the mirror rays' }], 0, v => { compMat.uniforms.uView.value = +v; dirty(); });
+s6.segment('Shadow rays per pixel, toward the sun', [{ value: 1, label: '1' }, { value: 2, label: '2' }, { value: 4, label: '4' }, { value: 8, label: '8' }], 4, v => { U.uShadowK.value = +v; dirty(); });
+s6.segment('Rays per pixel for sky and bounce light', [{ value: 2, label: '2' }, { value: 4, label: '4' }, { value: 6, label: '6' }, { value: 8, label: '8' }], 6, v => { U.uGiK.value = +v; dirty(); });
+s6.toggle('smooth the shadow and bounce answers (denoise)', true, v => { denoise = v; dirty(); });
 s6.segment('Picture size while still', [{ value: 1, label: 'full' }, { value: 0.5, label: 'half' }], 1, v => { stillScale = +v; });
-s6.segment('Picture size while moving', [{ value: 0.5, label: 'half' }, { value: 0.3, label: 'a third' }, { value: 0.2, label: 'a fifth' }], 0.3, v => { moveScale = +v; });
-s6.segment('Rays per pixel each frame', [{ value: 1, label: '1' }, { value: 2, label: '2' }, { value: 4, label: '4' }], 1, v => { U.uSpp.value = +v; });
-s6.toggle('blend frames while nothing moves', true, v => { accumulate = v; dirty(); });
-const triRead = s6.readout('triangles in the scene'), instRead = s6.readout('placed copies'), boxRead = s6.readout('boxes in the trees'), buildRead = s6.readout('building the trees took'), accRead = s6.readout('frames blended'), msRead = s6.readout('milliseconds per frame');
+s6.segment('Picture size while moving', [{ value: 0.75, label: 'three quarters' }, { value: 0.5, label: 'half' }, { value: 0.35, label: 'a third' }], 0.5, v => { moveScale = +v; });
+s6.toggle('anti-alias by blending frames while still', true, v => { accumulate = v; dirty(); });
+const triRead = s6.readout('triangles in the scene'), instRead = s6.readout('placed copies'), boxRead = s6.readout('boxes in the trees'), buildRead = s6.readout('building the trees took'), accRead = s6.readout('frames blended for anti-aliasing'), msRead = s6.readout('milliseconds per frame');
 triRead(totalTris.toLocaleString()); instRead(NI.toLocaleString() + ' (' + treeCount + ' trees, 70,000 blades of grass)'); boxRead(nodeTotal.toLocaleString()); buildRead((genMs + buildMs).toFixed(0) + ' ms');
 
 const sunPos = new THREE.Vector3(); const sunLabel = sb.label('the sun', sunPos, 'amber');
@@ -414,18 +459,26 @@ placeSun();
 sb.onFrame((dt) => {
   if (running) { runT += dt; if (runT > 2) { runT = 0; hour += 0.35; if (hour > 21) hour = 4.5; hourS.set(hour, false); placeSun(); } }
   const now = performance.now(); if (lastNow) msAvg += ((now - lastNow) - msAvg) * 0.08; lastNow = now; msRead(msAvg.toFixed(1) + ' ms');
-  expRead(exposure.toFixed(2) + (autoExp ? ', automatic' : ', by hand')); accRead(!accumulate ? 'off, one frame at a time' : accN + (accN === 1 ? ' frame' : ' frames') + (rtScale < 1 ? ', small picture' : ''));
-  sb.hud('mode', (hour < 5 || hour > 20 ? 'night: dark except where the fire and the lanterns reach, and a little moon' : hour < 8 || hour > 17.5 ? 'a low sun through a lot of air: orange light, long soft shadows' : 'high sun: white light, blue sky, hills fading into blue haze') + ' · every pixel is a path of rays');
+  expRead(exposure.toFixed(2) + (autoExp ? ', automatic' : ', by hand')); accRead(!accumulate ? 'off' : Math.min(accN, 32) + (accN === 1 ? ' frame' : ' frames') + (rtScale < 1 ? ', small picture' : ''));
+  sb.hud('mode', (hour < 5 || hour > 20 ? 'night: dark except where the fire and the lanterns reach, and a little moon' : hour < 8 || hour > 17.5 ? 'a low sun through a lot of air: orange light, long soft shadows' : 'high sun: white light, blue sky, hills fading into blue haze') + ' · one ray per pixel finds the surface, a few more light it');
 });
 sb.onRender((scene, camera, renderer) => {
   camera.updateMatrixWorld(); invPV.multiplyMatrices(camera.projectionMatrix, camera.matrixWorldInverse).invert();
   if (!lastCam.equals(camera.matrixWorld)) { lastCam.copy(camera.matrixWorld); lastMove = performance.now(); dirty(); }
-  const moving = performance.now() - lastMove < 350; const scale = moving ? moveScale : stillScale; if (scale !== rtScale) { rtScale = scale; ensureRT(scale); dirty(); } else ensureRT(scale);
+  const moving = performance.now() - lastMove < 300; const scale = moving ? moveScale : stillScale; if (scale !== rtScale) { rtScale = scale; ensureRT(scale); dirty(); } else ensureRT(scale);
+  const still = !moving && accumulate; const k = accN % 16; U.uJitter.value.set(still ? (k % 4) / 4 - 0.375 : 0, still ? Math.floor(k / 4) / 4 - 0.375 : 0); U.uNoiseShift.value = still ? accN * 0.618034 : 0;
   U.uInvPV.value.copy(invPV); U.uCamPos.value.copy(camera.position); U.uFrame.value = frame++;
-  const blending = accumulate; if (!blending) accN = 0; U.uBlend.value = blending ? 1 / (accN + 1) : 1; if (blending && accN < 100000) accN++;
-  U.tPrev.value = rtPrev.texture; renderer.setRenderTarget(rt); renderer.render(traceScene, quadCam);
-  renderer.setRenderTarget(null); dispU.tSrc.value = rt.texture; renderer.render(dispScene, quadCam);
-  const sw = rt; rt = rtPrev; rtPrev = sw;
+  pass(gbufMat, rtG);
+  loMat.uniforms.gA.value = rtG.textures[0]; loMat.uniforms.gB.value = rtG.textures[1]; pass(loMat, rtLo);
+  let loOut = rtLo;
+  if (denoise) { blurMat.uniforms.gA.value = rtG.textures[0]; blurMat.uniforms.gB.value = rtG.textures[1]; blurMat.uniforms.tV.value = rtLo.textures[0]; blurMat.uniforms.tG.value = rtLo.textures[1]; blurMat.uniforms.uDir.value.set(1, 0); pass(blurMat, rtLoT);
+    blurMat.uniforms.tV.value = rtLoT.textures[0]; blurMat.uniforms.tG.value = rtLoT.textures[1]; blurMat.uniforms.uDir.value.set(0, 1); pass(blurMat, rtLoB); loOut = rtLoB; }
+  reflMat.uniforms.gA.value = rtG.textures[0]; reflMat.uniforms.gB.value = rtG.textures[1]; reflMat.uniforms.gC.value = rtG.textures[2]; pass(reflMat, rtR);
+  const cu = compMat.uniforms; cu.gA.value = rtG.textures[0]; cu.gB.value = rtG.textures[1]; cu.gC.value = rtG.textures[2]; cu.gD.value = rtG.textures[3]; cu.tV.value = loOut.textures[0]; cu.tG.value = loOut.textures[1]; cu.tR.value = rtR.texture; cu.tPrev.value = accPrev.texture;
+  if (!still) accN = 0; cu.uBlend.value = still ? 1 / (Math.min(accN, 31) + 1) : 1; if (still) accN++;
+  pass(compMat, acc);
+  renderer.setRenderTarget(null); dispU.tSrc.value = acc.texture; quad.material = dispMat; renderer.render(quadScene, quadCam);
+  const sw = acc; acc = accPrev; accPrev = sw;
 });
 sb.start();
 </script>
